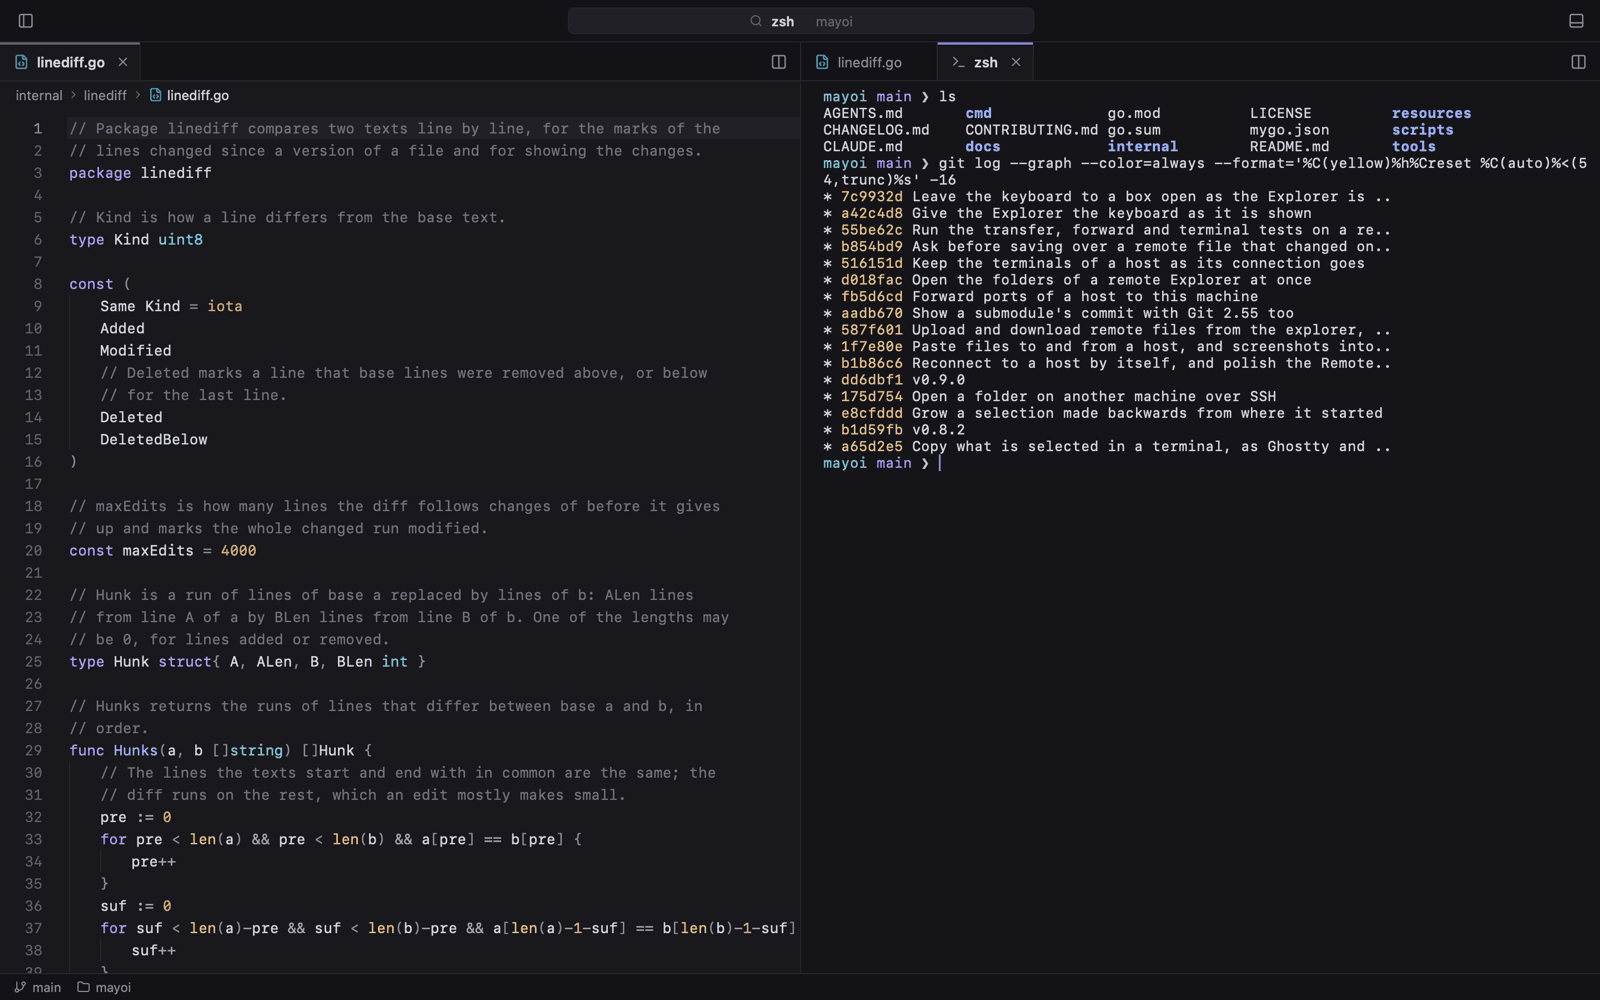
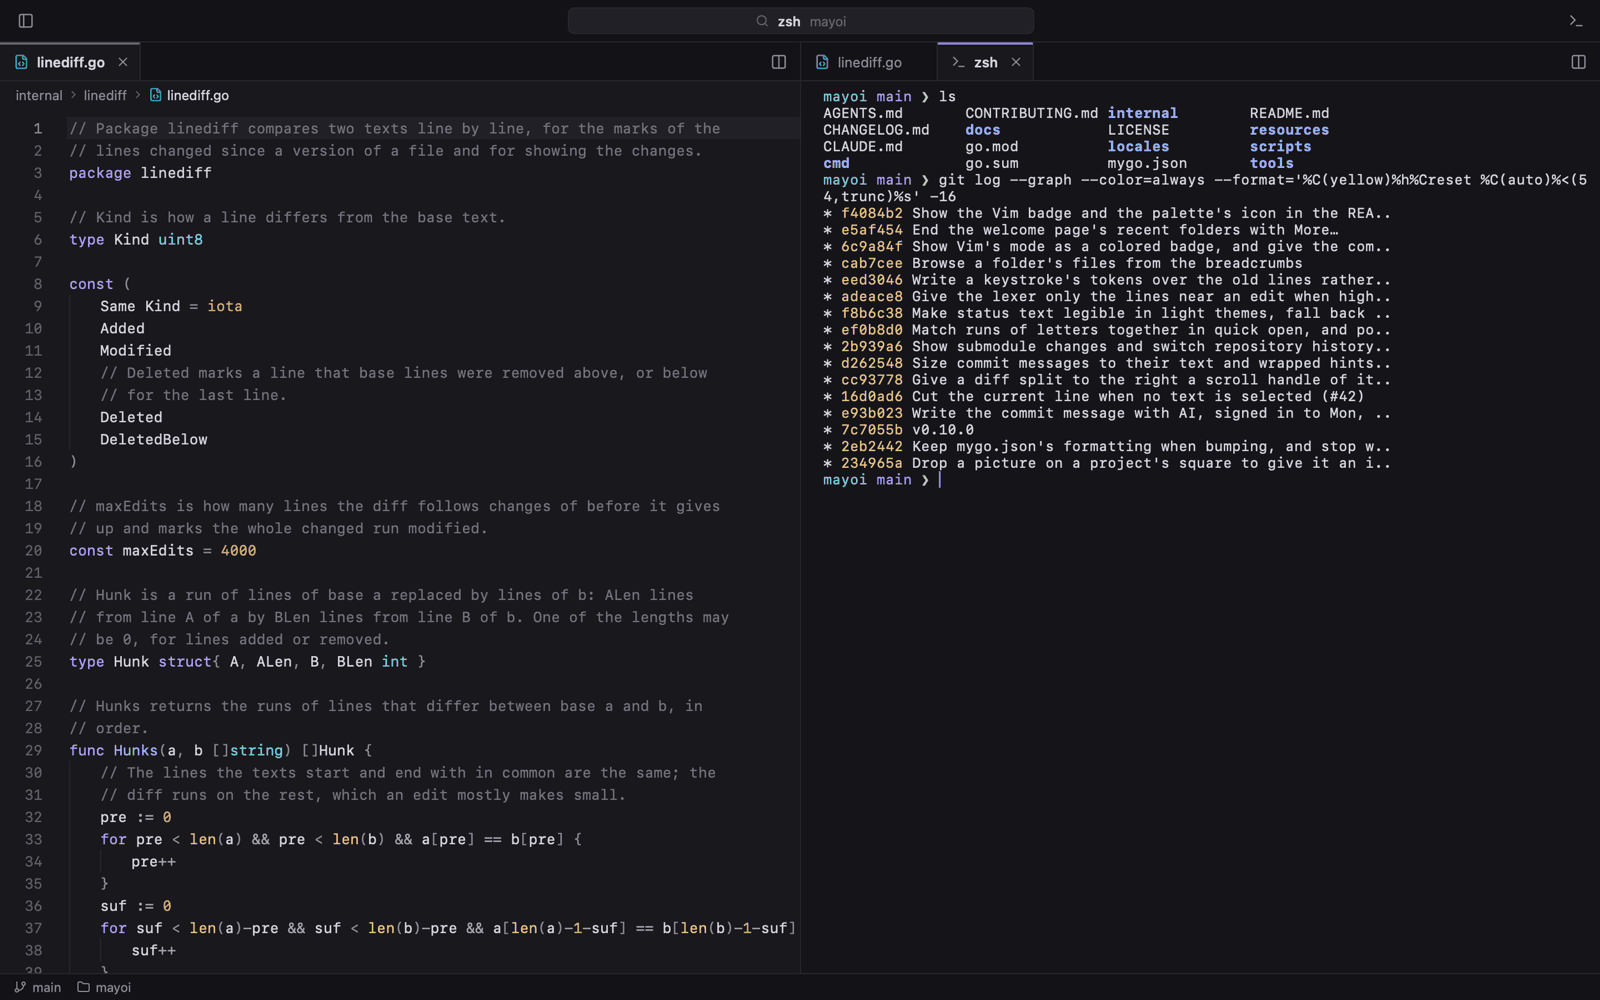
Keep the title bar's names together and the welcome page's rows one height

Changed region(s): [[0.5, 0.093, 1.0, 0.496], [0.4688, 0.0, 0.5312, 0.031]]

diff --git a/cmd/mayoi/view.go b/cmd/mayoi/view.go
@@ -399,9 +399,12 @@ func (a *app) commandCenter(c *ui.Context) {
 				folder = filepath.Base(hostPath(a.root)) + " [SSH: " + host + "]"
 			}
 		}
+		var nameW float32
+		if name != "" {
+			nameW, _ = c.MeasureText(0, ui.Span{Text: name, Size: 12, Weight: 550})
+		}
 		if name != "" && folder != "" && room > 0 {
 			// The folder goes before the name is cut short.
-			nameW, _ := c.MeasureText(0, ui.Span{Text: name, Size: 12, Weight: 550})
 			folderW, _ := c.MeasureText(0, ui.Span{Text: folder, Size: 12})
 			if nameW+8+folderW > room {
 				folder = ""
@@ -409,7 +412,9 @@ func (a *app) commandCenter(c *ui.Context) {
 		}
 		switch {
 		case name != "" && a.root != "":
-			ui.Text(c, name).FontSize(12).FontWeight(550).TextColor(p.text).SingleLine().Shrink(1).MinWidth(32)
+			// A short name, as a terminal's "zsh", keeps its own width
+			// rather than a gap after it.
+			ui.Text(c, name).FontSize(12).FontWeight(550).TextColor(p.text).SingleLine().Shrink(1).MinWidth(min(32, nameW))
 			if folder == "" {
 				break
 			}
@@ -1227,7 +1232,7 @@ func (a *app) welcome(c *ui.Context) {
 				if len(recent) > 0 {
 					a.welcomeSection(c, locales.WelcomeRecent(), func() {
 						for _, dir := range recent[:min(6, len(recent))] {
-							r := ui.ButtonBase(c.Key("recent:"+dir)).FillWidth().Padding(6, 10).Radius(6).Gap(10).
+							r := ui.ButtonBase(c.Key("recent:"+dir)).FillWidth().Height(welcomeRowH).Padding(0, 10).Radius(6).Gap(10).
 								Justify(ui.Start).AlignItems(ui.Center).Label(locales.RecentOpenLabel(dir)).Tooltip(shortenHome(dir))
 							if r.Hovered() {
 								r.Background(p.hover)
@@ -1264,6 +1269,10 @@ func (a *app) welcome(c *ui.Context) {
 	})
 }
 
+// welcomeRowH is the height of every row of the welcome page, with keys
+// or without, so that they keep one rhythm.
+const welcomeRowH = 30
+
 // welcomeSection is a titled group of the welcome page.
 func (a *app) welcomeSection(c *ui.Context, title string, rows func()) {
 	p := a.pal
@@ -1278,7 +1287,7 @@ func (a *app) welcomeSection(c *ui.Context, title string, rows func()) {
 // icon, its name and its keys.
 func (a *app) welcomeAction(c *ui.Context, icon *ui.SVG, label, keys string, fn func()) {
 	p := a.pal
-	r := ui.ButtonBase(c.Key("action:"+label)).FillWidth().Padding(6, 10).Radius(6).Gap(10).
+	r := ui.ButtonBase(c.Key("action:"+label)).FillWidth().Height(welcomeRowH).Padding(0, 10).Radius(6).Gap(10).
 		Justify(ui.Start).AlignItems(ui.Center).Label(label)
 	hovered := r.Hovered()
 	if hovered {

diff --git a/CHANGELOG.md b/CHANGELOG.md
@@ -5,6 +5,10 @@ needs a `## <version>` section here, or its build fails.
 
 ## Unreleased
 
+- The box in the middle of the title bar no longer leaves a gap after a
+  short name, as a terminal's `zsh`, before the folder.
+- The welcome page's rows are all one height, with keys or without, so
+  Start and Recent keep one rhythm.
 - In Vim mode, the status bar shows the mode as a badge, colored by
   mode: plain in normal mode, the accent color in insert mode, and amber in visual
   mode, in place of `-- NORMAL --`.
